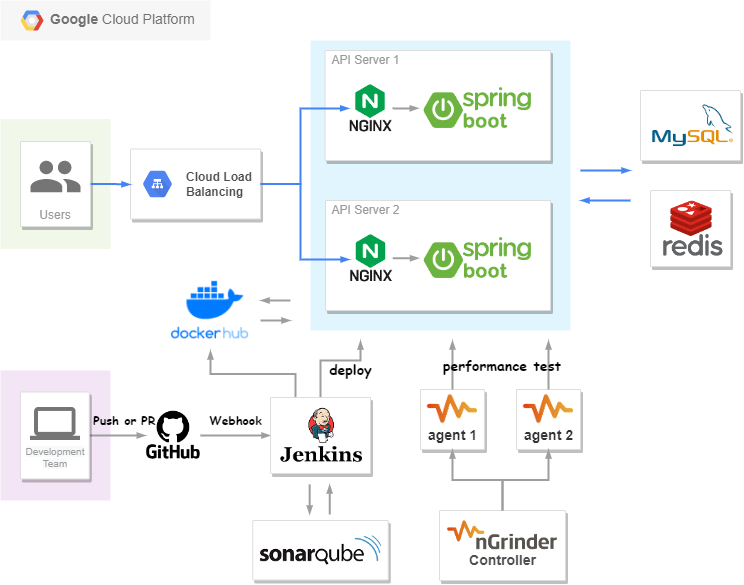
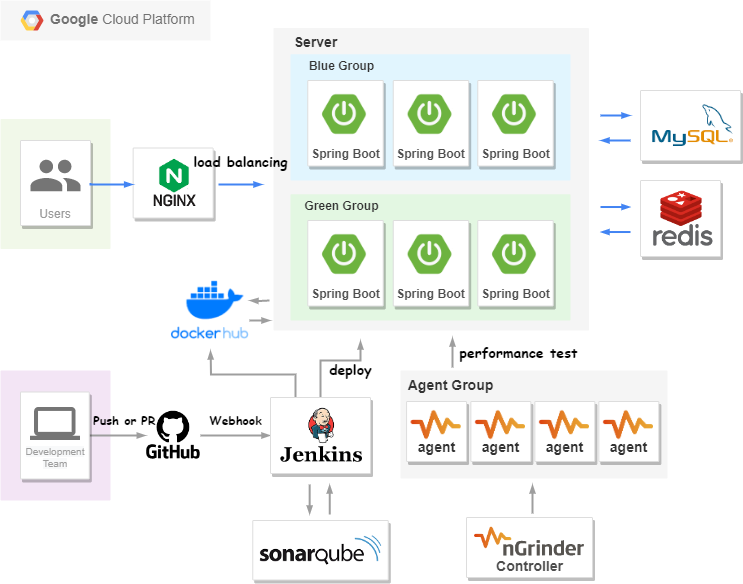
fix: 쿠폰 발급 API 수정 (#53)
* fix: download-coupon.lua 수정

 - keys와 args로 받은 인자 대입할 때 순서 잘 못 수정했어서 없는 변수 액세스하는 버그 수정

* feat: LocalDateTime타입 Instant로 수정

* feat: 선착순 쿠폰 발급 요청시 서버로 요청한 시간으로 검증되도록 수정

* feat: LocalDateTime타입 Instant로 수정

* docs: README.md, architecture와 db 그림 수정

* docs: README.md 수정

diff --git a/src/main/kotlin/com/mojh/cms/coupon/controller/CouponController.kt b/src/main/kotlin/com/mojh/cms/coupon/controller/CouponController.kt
@@ -1,14 +1,17 @@
 package com.mojh.cms.coupon.controller
 
 import com.mojh.cms.common.ApiResponse
+import com.mojh.cms.coupon.dto.request.DownloadCouponRequest
 import com.mojh.cms.coupon.service.CouponService
 import com.mojh.cms.member.entity.Member
 import com.mojh.cms.security.member.LoginMember
 import org.springframework.security.access.annotation.Secured
 import org.springframework.web.bind.annotation.PathVariable
 import org.springframework.web.bind.annotation.PostMapping
+import org.springframework.web.bind.annotation.RequestBody
 import org.springframework.web.bind.annotation.RequestMapping
 import org.springframework.web.bind.annotation.RestController
+import javax.validation.Valid
 
 @RestController
 @RequestMapping("/coupons")
@@ -18,8 +21,9 @@ class CouponController(
 
     @PostMapping("/{couponId}/download")
     @Secured("ROLE_CUSTOMER")
-    fun downloadCoupon(@PathVariable couponId: Long, @LoginMember customer: Member): ApiResponse<*> {
-        couponService.tryDownloadCoupon(couponId, customer)
+    fun downloadCoupon(@PathVariable couponId: Long, @LoginMember customer: Member,
+                       @Valid @RequestBody downloadCouponRequest: DownloadCouponRequest): ApiResponse<*> {
+        couponService.tryDownloadCoupon(couponId, customer, downloadCouponRequest.requestDateTime)
         return ApiResponse.succeed()
     }
 }

diff --git a/src/main/kotlin/com/mojh/cms/coupon/service/CouponService.kt b/src/main/kotlin/com/mojh/cms/coupon/service/CouponService.kt
@@ -58,11 +58,10 @@ class CouponService(
     fun getActuallyIssuedCouponCount(couponId: Long) =
         memberCouponRepository.countByCouponId(couponId)
 
-    fun tryDownloadCoupon(couponId: Long, customer: Member): Boolean {
-        val now = Instant.now().toEpochMilli().toString()
+    fun tryDownloadCoupon(couponId: Long, customer: Member, requestDateTime: Instant): Boolean {
         val scriptResult = redisTemplate.execute(
             downloadCouponScript, listOf(couponId.toString(), COUPON_ISSUE_QUEUE_KEY),
-            customer.id.toString(), Coupon.Status.ENABLED.toString(), now,
+            customer.id.toString(), Coupon.Status.ENABLED.toString(), requestDateTime.toEpochMilli().toString(),
             COUPON_NOT_ENABLED.name, COUPON_ISSUE_PERIOD_INVALID.name,
             ALREADY_DOWNLOADED_COUPON.name, COUPON_EXHAUSTED.name
         )
@@ -70,7 +69,7 @@ class CouponService(
         if (scriptResult != "SUCCESS") {
             throw CouponApplicationException(ErrorCode.valueOf(scriptResult))
         }
-        LOGGER.info("couponId=$couponId, memberId=$customer.id res=$scriptResult")
+        LOGGER.info("[${requestDateTime}] couponId=$couponId, memberId=${customer.id} res=$scriptResult")
 
         return true;
     }

diff --git a/src/main/kotlin/com/mojh/cms/common/embeddable/Period.kt b/src/main/kotlin/com/mojh/cms/common/embeddable/Period.kt
@@ -1,5 +1,6 @@
 package com.mojh.cms.common.embeddable
 
+import java.time.Instant
 import java.time.LocalDateTime
 import javax.persistence.Column
 import javax.persistence.Embeddable
@@ -7,10 +8,10 @@ import javax.persistence.Embeddable
 @Embeddable
 class Period(
     @Column
-    var startAt: LocalDateTime,
+    var startAt: Instant,
 
     @Column
-    var endAt: LocalDateTime
+    var endAt: Instant
 ) {
     init {
         require(startAt <= endAt) { "시작 일시는 종료 일시보다 빠르거나 같아야 합니다." }
@@ -18,7 +19,7 @@ class Period(
     /**
      * 시작 일시 <= dateTime <= 종료 일시
      */
-    fun contains(dateTime: LocalDateTime) = (startAt..endAt).contains(dateTime)
+    fun contains(dateTime: Instant) = (startAt..endAt).contains(dateTime)
 }
 
 

diff --git a/src/main/kotlin/com/mojh/cms/coupon/entity/MemberCoupon.kt b/src/main/kotlin/com/mojh/cms/coupon/entity/MemberCoupon.kt
@@ -5,7 +5,7 @@ import com.mojh.cms.common.exception.CouponApplicationException
 import com.mojh.cms.common.exception.ErrorCode.COUPON_IS_NOT_AVAILABLE
 import com.mojh.cms.member.entity.Member
 import org.springframework.security.access.AccessDeniedException
-import java.time.LocalDateTime
+import java.time.Instant
 import javax.persistence.*
 
 @Entity
@@ -28,7 +28,7 @@ class MemberCoupon constructor(
         protected set
 
     @Column
-    var usedAt: LocalDateTime? = null
+    var usedAt: Instant? = null
         protected set
 
     enum class Status {
@@ -60,7 +60,7 @@ class MemberCoupon constructor(
         }
 
         status = Status.USED
-        usedAt = LocalDateTime.now()
+        usedAt = Instant.now()
     }
 
     private fun isOwner(customer: Member): Boolean {

diff --git a/src/main/kotlin/com/mojh/cms/common/BaseEntity.kt b/src/main/kotlin/com/mojh/cms/common/BaseEntity.kt
@@ -3,6 +3,7 @@ package com.mojh.cms.common
 import org.springframework.data.annotation.CreatedDate
 import org.springframework.data.annotation.LastModifiedDate
 import org.springframework.data.jpa.domain.support.AuditingEntityListener
+import java.time.Instant
 import java.time.LocalDateTime
 import javax.persistence.*
 
@@ -15,11 +16,11 @@ abstract class BaseEntity {
 
     @CreatedDate
     @Column(updatable = false, nullable = false)
-    lateinit var createdAt: LocalDateTime
+    lateinit var createdAt: Instant
 
     @LastModifiedDate
     @Column(updatable = false)
-    lateinit var updatedAt: LocalDateTime
+    lateinit var updatedAt: Instant
 
     override fun equals(other: Any?): Boolean {
         if (this === other) return true

diff --git a/src/main/kotlin/com/mojh/cms/coupon/dto/request/CreateCouponRequest.kt b/src/main/kotlin/com/mojh/cms/coupon/dto/request/CreateCouponRequest.kt
@@ -3,6 +3,7 @@ package com.mojh.cms.coupon.dto.request
 import com.mojh.cms.common.embeddable.Period
 import com.mojh.cms.coupon.entity.Coupon
 import com.mojh.cms.member.entity.Member
+import java.time.Instant
 import java.time.LocalDateTime
 import javax.validation.constraints.Min
 import javax.validation.constraints.NotBlank
@@ -19,9 +20,9 @@ data class CreateCouponRequest(
     @field:Min(value = 1)
     val maxCount: Int,
 
-    val startAt: LocalDateTime,
+    val startAt: Instant,
 
-    val endAt: LocalDateTime
+    val endAt: Instant
 ) {
     fun toCoupon(seller: Member) = Coupon(
         seller = seller,

diff --git a/src/main/kotlin/com/mojh/cms/coupon/entity/Coupon.kt b/src/main/kotlin/com/mojh/cms/coupon/entity/Coupon.kt
@@ -4,6 +4,7 @@ import com.mojh.cms.common.BaseEntity
 import com.mojh.cms.common.embeddable.Period
 import com.mojh.cms.member.entity.Member
 import org.springframework.security.access.AccessDeniedException
+import java.time.Instant
 import java.time.LocalDateTime
 import javax.persistence.*
 
@@ -44,7 +45,7 @@ class Coupon(
     }
 
     fun isAvailable(): Boolean {
-        val now = LocalDateTime.now()
+        val now = Instant.now()
         if (status != Status.ENABLED || !availablePeriod.contains(now)) {
             return false
         }

diff --git a/src/main/kotlin/com/mojh/cms/coupon/dto/response/CouponResponse.kt b/src/main/kotlin/com/mojh/cms/coupon/dto/response/CouponResponse.kt
@@ -1,6 +1,7 @@
 package com.mojh.cms.coupon.dto.response
 
 import com.mojh.cms.coupon.entity.Coupon
+import java.time.Instant
 import java.time.LocalDateTime
 
 data class CouponResponse private constructor(
@@ -8,8 +9,8 @@ data class CouponResponse private constructor(
     val description: String,
     val maxCount: Int,
     val status: Coupon.Status,
-    val startAt: LocalDateTime,
-    val endAt: LocalDateTime
+    val startAt: Instant,
+    val endAt: Instant
 ) {
     companion object {
         fun from(coupon: Coupon) = CouponResponse(

diff --git a/src/main/kotlin/com/mojh/cms/coupon/dto/response/MemberCouponResponse.kt b/src/main/kotlin/com/mojh/cms/coupon/dto/response/MemberCouponResponse.kt
@@ -1,14 +1,15 @@
 package com.mojh.cms.coupon.dto.response
 
 import com.mojh.cms.coupon.entity.MemberCoupon
+import java.time.Instant
 import java.time.LocalDateTime
 
 data class MemberCouponResponse private constructor(
     val title: String,
     val description: String,
     val status: MemberCoupon.Status,
-    val startAt: LocalDateTime,
-    val endAt: LocalDateTime
+    val startAt: Instant,
+    val endAt: Instant
 ) {
     companion object {
         fun from(memberCoupon: MemberCoupon) = MemberCouponResponse(

diff --git a/src/main/kotlin/com/mojh/cms/coupon/entity/CouponRedis.kt b/src/main/kotlin/com/mojh/cms/coupon/entity/CouponRedis.kt
@@ -34,8 +34,8 @@ class CouponRedis(
 
     // TODO: LocalDateTime -> Instant로 변경
     @Column
-    var startAt: Long = availablePeriod.startAt.toInstant(ZoneOffset.UTC).toEpochMilli()
+    var startAt: Long = availablePeriod.startAt.toEpochMilli()
 
     @Column
-    var endAt: Long = availablePeriod.endAt.toInstant(ZoneOffset.UTC).toEpochMilli()
+    var endAt: Long = availablePeriod.endAt.toEpochMilli()
 }

diff --git a/src/main/kotlin/com/mojh/cms/coupon/dto/request/DownloadCouponRequest.kt b/src/main/kotlin/com/mojh/cms/coupon/dto/request/DownloadCouponRequest.kt
@@ -1,0 +1,7 @@
+package com.mojh.cms.coupon.dto.request
+
+import java.time.Instant
+
+data class DownloadCouponRequest(
+    val requestDateTime: Instant
+)

diff --git a/README.md b/README.md
@@ -7,9 +7,20 @@
 내용
 
  - 판매자 권한을 가진 유저가 쿠폰 정보를 등록하면 일반 유저는 한정된 개수를 가진 쿠폰에 대해 다운로드 요청을 해서 쿠폰을 발급받는 시나리오를 가정하여 개발
- - Redisson 분산 락을 활용하여 쿠폰 개수 동시성 이슈 처리
-
 - 선착순 쿠폰 이벤트 특성상 순간 몰리는 트래픽에 대응하여 서버가 Auto Scaling 되기 전에 이벤트가 끝날 수도 있으므로 서버의 대수를 미리 늘리고 감당할 수 있는 트래픽을 측정하는 것이 중요하다고 생각해 nGrinder를 학습해 성능테스트 진행
+- Redis를 활용하여 쿠폰 개수 동시성 이슈 처리
+
+<br>
+
+쿠폰 개수 동시성 이슈 처리
+
+1. 기존 방법 
+   - Redisson 분산 락을 활용하여 처리
+
+2. 변경 방법
+   - Redis의 Lua Script를 활용하여 처리
+   - Lua Script에서 쿠폰 발급 요건사항 체크와 쿠폰 지급 대상 마킹을 위한 Set 타입의 자료구조에 유저 정보를 넣고 Sorted Set 타입의 자료구조에는 유저에게 실제로 발급할 쿠폰 정보를 담는 로직을 atomic하게 처리
+   - 이후 스케줄러가 돌면서 Redis의 Sorted Set 타입`issuable_coupon_queue`에서 데이터를 가져와 유저에게 실제로 쿠폰을 지급
 
 <br>
 
@@ -32,35 +43,62 @@
 
 ## 성능 테스트
 
-API 서버 2대로 부하 분산 중인 GCP 로드 밸런서로 요청하여 쿠폰 다운로드 기능 성능 테스트 
+여러대의 API 서버로 부하 분산 중인 상황에서 선착순 쿠폰 다운로드 요청 성능 테스트
 
-- 테스트를 위한 더미 데이터(유저 50만, 유저가 보유한 쿠폰 정보 500만, 쿠폰 정보 1만)를 미리 넣어두고 테스트
+### 준비
 
-- 선착순 이벤트 특성상 유저가 이미 로그인이 완료된 상태에서 쿠폰 다운로드 요청을 보낼 것이라 생각하고 테스트 시나리오를 가정하여 미리 Access Token 5만 개를 세팅하고 쿠폰 개수 5000으로 설정, vuser 320과 1600으로 테스트 진행
+1. 테스트를 위한 더미 데이터 설정
+   - 각 테이블 member 100만, coupon 10만, member_coupon 1000만
 
-### 서버 사양
-
-- API 서버 2대 - 4vCPU RAM 8GB 
-
-- MySQL 서버 1대 - 2vCPU Ram 8GB
-
-- Redis 서버 1대 - 2vCPU Ram 8GB
-
-- Ngrinder Controller 1대 - 2vCPU RAM 4GB
-
-- Ngrinder Agent 4대 - 2vCPU RAM 4GB
+2. 선착순 이벤트 특성상 유저가 이미 로그인이 완료된 상태에서 쿠폰 다운로드 요청을 보낼 것이라 생각하고 테스트 시나리오를 가정
+   - 미리 Access Token 10만 개 설정(유효하지 않은 토큰, 만료된 토큰인 경우들 제외)
+   - 설정한 Access Token을 1만개씩 csv 파일 10개로 나눈 후 agent의 pid 기준으로 10개 중 하나 설정하여 요청
+   - 할당된 Access Token 정보를 가진 csv 파일 내의 유저 정보 중 랜덤하게 선택해서 다운로드 요청(한 명이 여러 번 요청하는 경우도 있으니 테스트가 진행되는 중에는 계속 랜덤하게 유저 정보 택해서 요청함)
 
 <br>
 
-1. vuser = 320, coupon count = 5000
+### 서버 사양
 
-![nr1](./etc/nr1.jpg)
+- API 서버 (1대당 사양 : 2vCPU RAM 4GB )
 
-2. vuser = 1600, coupon count = 5000
+- MySQL 서버 1대 (2vCPU Ram 8GB)
 
-![nr2](./etc/nr2.jpg)
+- Redis 서버 1대 (2vCPU Ram 8GB)
+
+- Ngrinder Controller 1대 (2vCPU RAM 4GB)
+
+- Ngrinder Agent 총 4대 (1대당 사양 : 2vCPU RAM 4GB)
+
+<br>
+
+### 테스트 결과
+
+#### 1. 기존 방법 (Redisson Lock 사용)
+
+1. API 서버 2대, vuser = 320, coupon count = 5000
+
+![test-result-1](./etc/test-result-1.jpg)
+
+2. API 서버 2대, vuser = 1600, coupon count = 5000
+
+![test-result-2](./etc/test-result-2.jpg)
 
 - 남은 쿠폰이 존재해서 쿠폰 다운 로드 요청이 처리될 때 TPS 60 ~ 120, 쿠폰이 모두 소진된 후 들어오는 요청 처리 시 TPS 140 ~ 180 정도 측정됨
-- 생각보다 TPS가 적게 나왔다고 생각, 분산 락을 활용하는 방법이 아닌 Redis가 싱글 스레드 기반으로 커맨드를 처리하는 점을 활용하여 쿠폰 개수 감소를 처리해서 다운로드 로직을 수정하는 것이 더 나은 방법일 수도 있다고 생각됨
-- 쿠폰을 다운로드할 수 있는 조건에 부합해서 DB(MySQL)에 실제 쿠폰을 지급하는 Insert Query가 선착순 쿠폰 다운로드 API의 비즈니스 로직 내에 포함되는데 쿠폰 지급 로직은 따로 Queue에 쌓아서 Consumer에서 처리하는 것이 성능과 안전성 면에서 더 좋지 않을까 생각됨
+- 생각보다 TPS가 적게 나왔다고 생각, 분산 락을 활용하는 방법이 아닌 Redis가 싱글 스레드 기반으로 커맨드를 처리하는 점을 활용하여 쿠폰 개수 감소 로직을 처리하는 방향으로 다운로드 로직을 수정하는 것이 더 나은 방법일 수도 있다고 생각됨
+- 쿠폰을 다운로드할 수 있는 조건에 부합해서 DB(MySQL)에 실제 쿠폰을 지급하는 Insert Query가 선착순 쿠폰 다운로드 API의 비즈니스 로직 내에 포함되어 있는데 실제로 쿠폰을 지급하는 로직은 따로 Queue에 쌓아서 Consumer에서 처리하는 것이 성능과 안전성 면에서 더 좋지 않을까 생각됨
+
+<br>
+
+#### 2. 개선 방법
+
+- 선착순 쿠폰 다운로드 요청과 다운로드 요건을 충족한 유저들에게 쿠폰을 실제로 지급하는 로직 분리한 방법
+
+1. 
+
+![test-result-3](./etc/test-result-3.jpg)
+
+
+![test-result-4](./etc/test-result-4.jpg)
+
+
 
